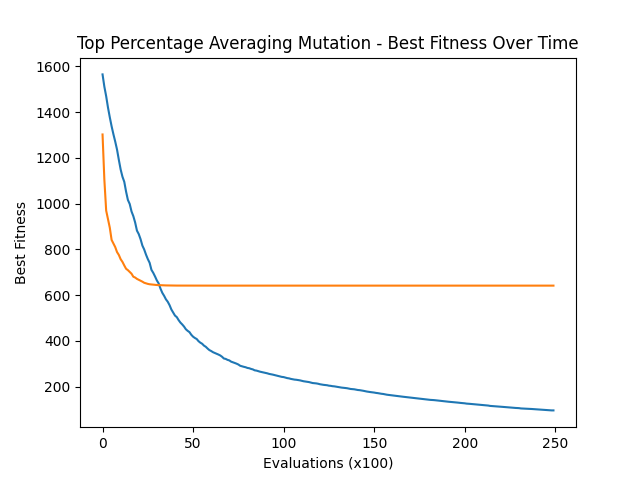
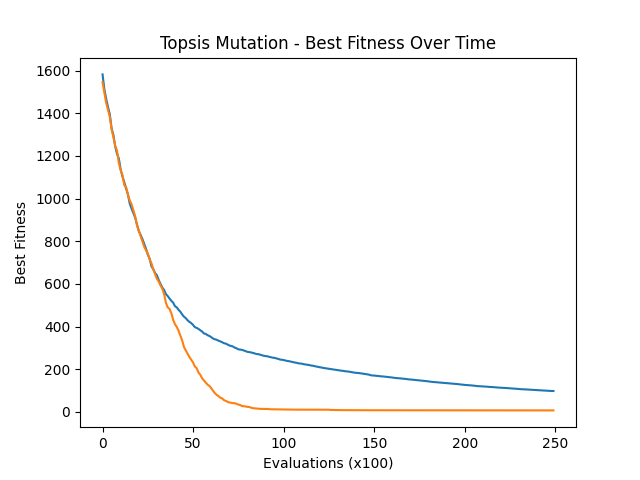
Best/worst types for topsis mutation

diff --git a/topsis_mutation/main.py b/topsis_mutation/main.py
@@ -96,15 +96,17 @@ if __name__ == "__main__":
         poly_history = run_experiment(poly_algorithm, ga_params["max_evaluations"])
         poly_history_sum += poly_history
         
-        # TopPercentageAveragingMutation
+        # TopsisMutation
         top_percentage_algorithm = CustomGeneticAlgorithm(
             problem=problem,
             population_size=ga_params["population_size"],
             offspring_population_size=ga_params["offspring_population_size"],
             mutation=TopsisMutation(
                 probability=topsis_mutation_params["probability"],
-                top_percentage=topsis_mutation_params["top_percentage"],
+                selected_percentage=topsis_mutation_params["top_percentage"],
                 push_strength=topsis_mutation_params["push_strength"],
+                best=topsis_mutation_params["toBest"],
+                worst=topsis_mutation_params["fromWorst"],
                 population=[]
             ),
             crossover=SBXCrossover(probability=0.9, distribution_index=20),
@@ -124,7 +126,7 @@ if __name__ == "__main__":
 
 
     plt.plot(poly_history_avg, label="Polynomial Mutation")
-    plt.plot(top_percentage_history_avg, label="Top Percentage Averaging Mutation")
+    plt.plot(top_percentage_history_avg, label="Topsis Mutation")
     plt.title("Best Fitness Over Time")
     plt.xlabel("Evaluations (x100)")
     plt.ylabel("Best Fitness")
@@ -142,7 +144,7 @@ if __name__ == "__main__":
     # plt.show()
 
     plt.plot(top_percentage_history_avg)
-    plt.title("Top Percentage Averaging Mutation - Best Fitness Over Time")
+    plt.title("Topsis Mutation - Best Fitness Over Time")
     plt.xlabel("Evaluations (x100)")
     plt.ylabel("Best Fitness")
     plt.grid()

diff --git a/topsis_mutation/topsis_mutation.py b/topsis_mutation/topsis_mutation.py
@@ -6,10 +6,10 @@ class TopsisMutation(PolynomialMutation):
     TopsisMutation to klasa mutacji, która dziedziczy po PolynomialMutation.
     Implementuje mutację opartą na średniej wartości topowych osobników populacji.
     """
-    def __init__(self, probability: float, top_percentage: float, push_strength: float, best=True, worst=False, population=None):
+    def __init__(self, probability: float, selected_percentage: float, push_strength: float, best=True, worst=False, population=None):
         # Wywołanie konstruktora klasy bazowej
         super(TopsisMutation, self).__init__(probability=probability)
-        self.top_percentage = top_percentage  # Procent najlepszych osobników do uśrednienia
+        self.selected_percentage = selected_percentage  # Procent najlepszych/najgorszych osobników do uśrednienia
         self.push_strength = push_strength    # Współczynnik określający siłę przyciągania do uśrednionego topowego osobnika
         self.population = population or []    # Populacja osobników
         self.best = best
@@ -24,7 +24,7 @@ class TopsisMutation(PolynomialMutation):
         sorted_population = sorted(self.population, key=lambda x: x.objectives[0])
 
         # Obliczenie liczby osobników do uśrednienia
-        num_individuals = int(len(sorted_population) * self.top_percentage)
+        num_individuals = int(len(sorted_population) * self.selected_percentage)
         
         # Zapewniamy, że zostanie wybrany co najmniej jeden osobnik
         num_individuals = max(num_individuals, 1)
